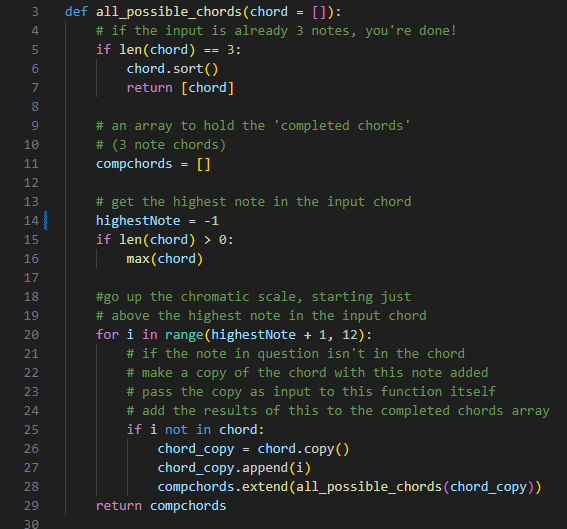
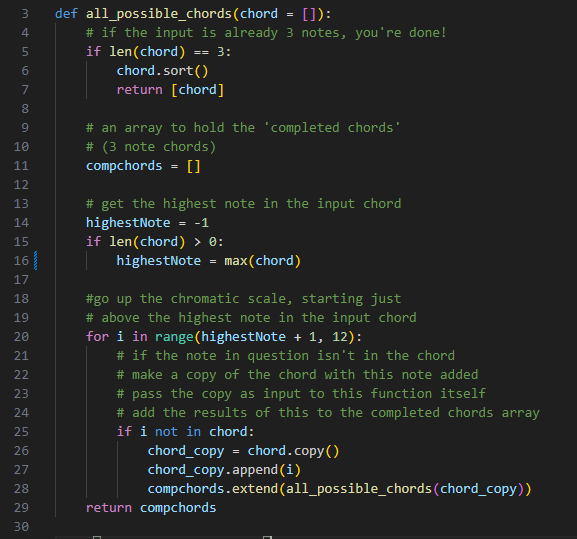
work on visualization

diff --git a/visualizations/guiForCoordinates.html b/visualizations/guiForCoordinates.html
@@ -44,7 +44,9 @@
 
         var ws = new WebSocket("ws://localhost:8080");
 
-        const codeLineCoords = [40,58,78,154,210,229,249,325,420,440,458,476,496];
+        const codeLineCoords = [40, 58, 78, 154, 210, 229, 249, 325, 420, 440, 458, 476, 496];
+        var ln = 0;
+
 
         const higlighter = document.createElementNS("http://www.w3.org/2000/svg", "rect");
         //higlighter.setAttribute("stroke", "blue");
@@ -63,7 +65,7 @@
         imgSVG.setAttribute("xmlns", "http://www.w3.org/2000/svg");
         imgSVG.appendChild(higlighter);
         imgSVG.addEventListener("mousemove", mouseMove);
-         imgSVG.addEventListener("click", mouseClick);
+        imgSVG.addEventListener("click", mouseClick);
         //methodImage.appendChild(imgSVG);
 
 
@@ -73,6 +75,7 @@
         let masterSvg = document.createElementNS("http://www.w3.org/2000/svg", "svg");
         masterSvg.setAttribute("xmlns", "http://www.w3.org/2000/svg");
         aniGridItem.appendChild(masterSvg);
+        //aniGridItem.setAttribute("class", "img-overlay-wrap");
         grid.appendChild(aniGridItem);
 
         const imgGridItem = document.createElement('div');
@@ -91,8 +94,9 @@
 
             //masterSvg.setAttribute("x", "0");
             //masterSvg.setAttribute("y", "0");
-            masterSvg.setAttribute("width", "" + methodImage.width);
-            masterSvg.setAttribute("height", "" + methodImage.height);
+            bounds = aniGridItem.getBoundingClientRect();
+            masterSvg.setAttribute("width", "" + bounds.width);
+            masterSvg.setAttribute("height", "" + bounds.height);
 
             /*
             imgSVG.setAttribute("x", 0);
@@ -109,17 +113,179 @@
             higlighter.setAttribute("width", methodImage.width);//String(methodImage.width));
             higlighter.setAttribute("height", 20);//String(10));
 
-
+            codeRun();
         }
-
+        /*
+        setInterval(function(){
+                    higlighter.setAttribute("y",codeLineCoords[ln % codeLineCoords.length]);
+                    ln++
+                }, 1000);
+                */
 
         function mouseMove(event) {
-            higlighter.setAttribute("y",event.offsetY);
+            higlighter.setAttribute("y", event.offsetY);
 
         }
 
         function mouseClick(event) {
-            ws.send(event.offsetY +"");
+            ws.send(event.offsetY + "");
+        }
+
+        animables = [];
+        var globalScale = 1;
+        var globalOffset = [0, 0];
+
+        class Chord {
+            constructor(contents, pos, dest, spacer) {
+                this.contents = contents;
+                this.pos = pos;
+                this.dest = dest;
+                this.spacer = spacer;
+                this.children = [];
+
+
+                this.circ = document.createElementNS("http://www.w3.org/2000/svg", "circle");
+                this.circ.setAttribute("fill", "blue");
+                masterSvg.appendChild(this.circ);
+                this.updateSVG();
+                animables.push(this);
+            }
+
+            animate() {
+                var delta = [];
+
+                for (let i = 0; i < 2; i++) {
+                    delta.push(this.dest[i] - this.pos[i]);
+                }
+                var dist = Math.sqrt(delta[0] * delta[0] + delta[1] * delta[1]);
+                var vel = 0.1 * (dist);
+                if (dist > 0) {
+                    var velratio = vel / Math.sqrt(delta[0] * delta[0] + delta[1] * delta[1]);
+                    delta[0] *= velratio;
+                    delta[1] *= velratio;
+                }
+                this.pos[0] += delta[0];
+                this.pos[1] += delta[1];
+                this.updateChildrenDest();
+                this.updateSVG();
+            }
+
+            begetChild() {
+                var child = new Chord([...this.contents], [...this.pos], [...this.pos], this.spacer / 3.0);
+                this.children.push(child);
+                this.updateChildrenDest();
+                return child;
+            }
+
+            updateChildrenDest() {
+                var spacer = this.spacer;
+
+                var stY = -((this.children.length - 1) * spacer) / 2.0;
+
+                for (let i = 0; i < this.children.length; i++) {
+                    var child = this.children[i];
+                    child.dest[0] = this.pos[0] + i * spacer + stY;
+                    child.dest[1] = this.pos[1] + spacer;
+                }
+/*
+                  for (let i = 0; i < this.children.length; i++) {
+                    var child = this.children[i];
+                    var theta = i * Math.PI * 2 / 8.0;//Math.PI * 2 * i / this.children.length;
+                    var rad = spacer + spacer * i / 8.0;
+                    child.dest[0] = this.pos[0] + rad * Math.cos(theta);
+                    child.dest[1] = this.pos[1] + rad * Math.sin(theta);
+                }
+                    */
+
+
+            }
+
+            updateSVG() {
+                this.circ.setAttribute("cx", "" + Math.round((this.pos[0] + globalOffset[0]) * globalScale));
+                this.circ.setAttribute("cy", "" + Math.round((this.pos[1] + globalOffset[1]) * globalScale));
+                this.circ.setAttribute("r", "" + Math.round((this.spacer / 2.0) * globalScale));
+            }
+
+            add(i) {
+                this.contents.push(i);
+                //this.updateSVG();
+            }
+
+        }
+
+        //var chord = new Chord([], [50, 50], [100, 100]);
+
+        var frame = 1;
+        setInterval(function () {
+            animables.forEach(element => {
+                element.animate();
+            });
+            /*
+                        if (frame % 30 == 0) {
+                            chord.begetChild();
+                        }
+                            */
+                          // globalScale /= 1.01;
+            frame++;
+        }, 100);
+
+        function sleep(ms) {
+            return new Promise(resolve => setTimeout(resolve, ms));
+        }
+
+        async function codeRun() {
+            var sd = 50;
+            async function  all_possible_chords(chord) {
+                higlighter.setAttribute("y", codeLineCoords[0]);
+                await sleep(sd);
+                if (chord.contents.length == 4) {
+                    higlighter.setAttribute("y", codeLineCoords[1]);
+                    await sleep(sd);
+                    chord.contents.sort();
+                    higlighter.setAttribute("y", codeLineCoords[2]);
+                    await sleep(sd);
+                    return [chord];
+                }
+
+                higlighter.setAttribute("y", codeLineCoords[3]);
+                await sleep(sd);
+                var compchords = [];
+
+                higlighter.setAttribute("y", codeLineCoords[4]);
+                await sleep(sd);
+                var highestNote = -1;
+                higlighter.setAttribute("y", codeLineCoords[5]);
+                await sleep(sd);
+                if (chord.contents.length > 0) {
+                    higlighter.setAttribute("y", codeLineCoords[6]);
+                    await sleep(sd);
+                    highestNote = Math.max(chord.contents);
+                }
+
+                higlighter.setAttribute("y", codeLineCoords[7]);
+                await sleep(sd);
+                for (let i = highestNote + 1; i < highestNote + 5; i++) {
+                    higlighter.setAttribute("y", codeLineCoords[8]);
+                    await sleep(sd);
+                    if (!chord.contents.includes(i)) {
+                        higlighter.setAttribute("y", codeLineCoords[9]);
+                        await sleep(sd);
+                        chordCopy = chord.begetChild();
+                        higlighter.setAttribute("y", codeLineCoords[10]);
+                        await sleep(sd);
+                        chordCopy.add(i);
+                        higlighter.setAttribute("y", codeLineCoords[``]);
+                        await sleep(sd);
+                        var results = await all_possible_chords(chordCopy);
+                        compchords.push(... results);
+                    }
+                }
+                higlighter.setAttribute("y", codeLineCoords[12]);
+                await sleep(sd);
+                return compchords;
+            }
+
+            all_possible_chords(new Chord([], [methodImage.width / 2, 100], [methodImage.width / 2, 100],200));
         }
     </script>
 </body>

diff --git a/examples.py b/examples.py
@@ -13,7 +13,7 @@ def all_possible_chords(chord = []):
     # get the highest note in the input chord
     highestNote = -1
     if len(chord) > 0:
-        max(chord)
+        highestNote = max(chord)
 
     #go up the chromatic scale, starting just 
     # above the highest note in the input chord
